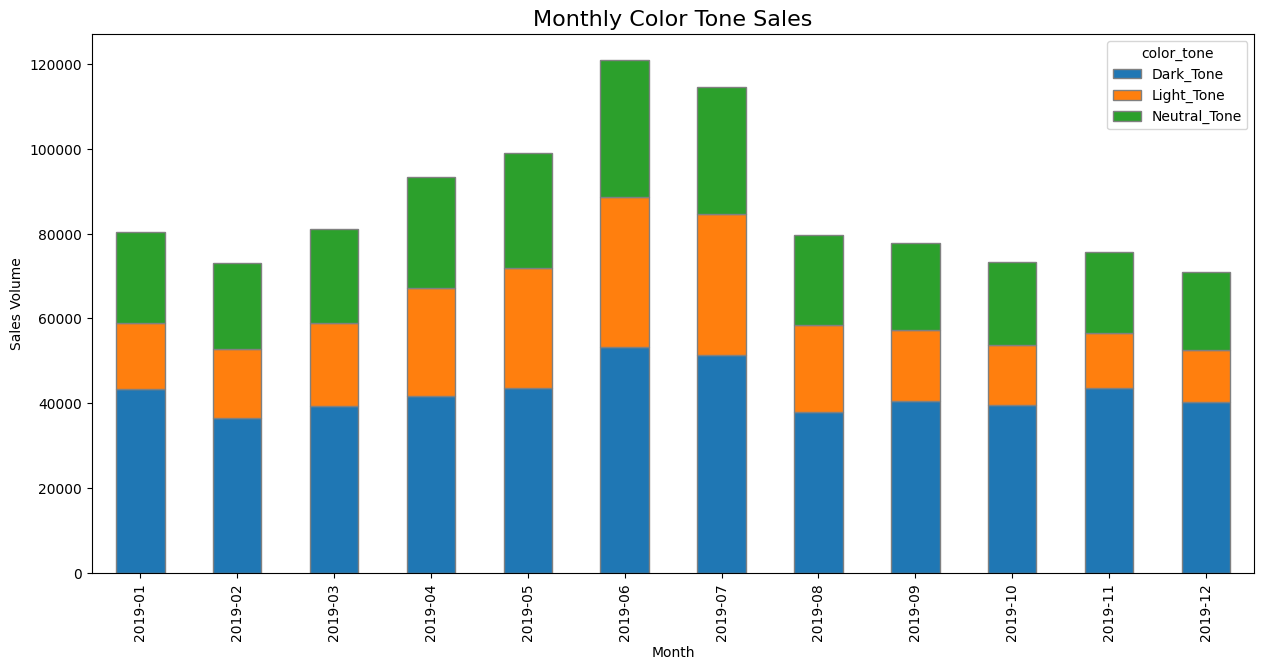
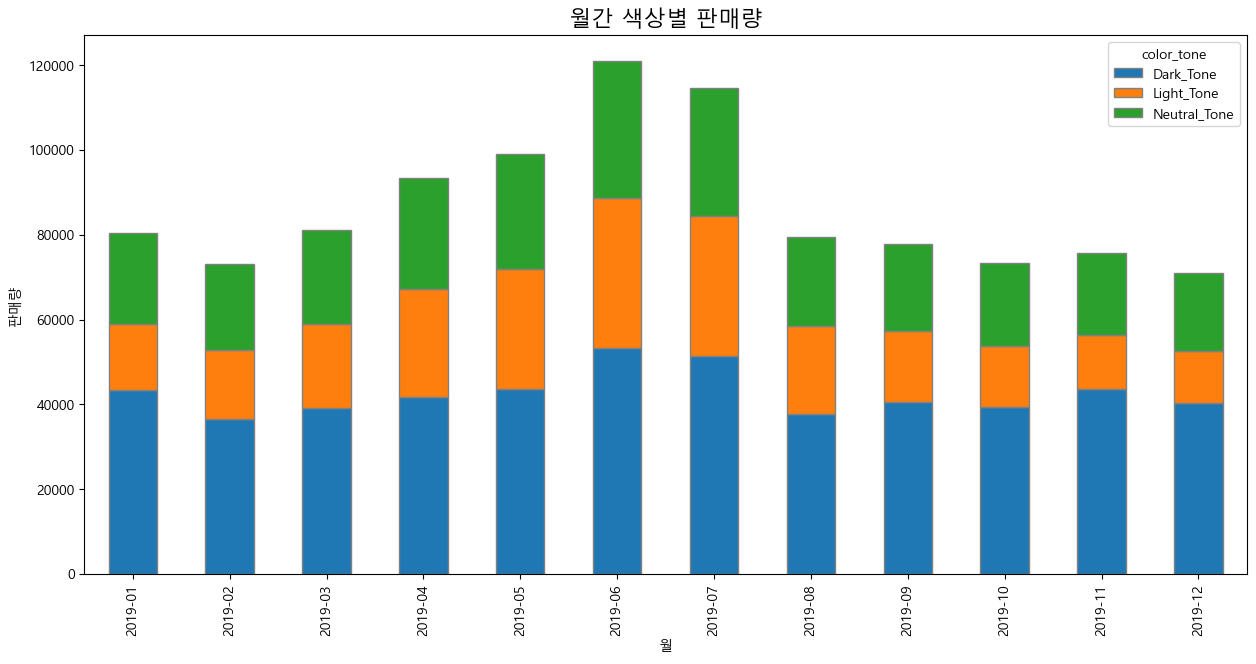
(SOL) 03_color update

diff --git a/SOL_analysis/03_color.md b/SOL_analysis/03_color.md
@@ -25,19 +25,40 @@ print(df.info())
     3  0.033881                 2    2019-08     온라인  0.0     0.0   
     4  0.003220                 1    2019-08    오프라인  0.0     0.0   
     
-       club_member_status  ...          index_name  index_group_name  \
-    0                 2.0  ...             Divided           Divided   
-    1                 2.0  ...          Ladieswear        Ladieswear   
-    2                 2.0  ...            Menswear          Menswear   
-    3                 2.0  ...  Ladies Accessories        Ladieswear   
-    4                 2.0  ...            Menswear          Menswear   
+       club_member_status  fashion_news_frequency   age age_segment  product_code  \
+    0                 2.0                     2.0  51.0         50대        698328   
+    1                 2.0                     0.0  28.0         20대        760597   
+    2                 2.0                     2.0  37.0         30대        488561   
+    3                 2.0                     0.0  19.0         10대        682771   
+    4                 2.0                     0.0  35.0         30대        742400   
     
-                 section_name  garment_group_name  \
-    0      Divided Collection        Jersey Fancy   
-    1           Womens Casual        Jersey Fancy   
-    2     Contemporary Casual              Shorts   
-    3  Womens Big accessories         Accessories   
-    4           Men Underwear    Socks and Tights   
+             prod_name product_type_name  product_group_name  \
+    0     ZEBRA CF TVP           Sweater  Garment Upper body   
+    1  BUBBLE WRAP TOP               Top  Garment Upper body   
+    2    Teddy jogger.            Shorts  Garment Lower body   
+    3     Yuki shopper               Bag         Accessories   
+    4    1pk Sportsock             Socks      Socks & Tights   
+    
+      graphical_appearance_name colour_group_name perceived_colour_value_name  \
+    0           Placement print         Dark Blue                        Dark   
+    1                    Stripe             White                       Light   
+    2                  Chambray         Dark Blue                        Dark   
+    3                     Solid             Black                        Dark   
+    4          All over pattern             White                       Light   
+    
+      perceived_colour_master_name    department_name          index_name  \
+    0                         Blue  Tops Fancy Jersey             Divided   
+    1                        White             Jersey          Ladieswear   
+    2                         Blue             Shorts            Menswear   
+    3                        Black               Bags  Ladies Accessories   
+    4                        White         Socks Wall            Menswear   
+    
+      index_group_name            section_name garment_group_name  \
+    0          Divided      Divided Collection       Jersey Fancy   
+    1       Ladieswear           Womens Casual       Jersey Fancy   
+    2         Menswear     Contemporary Casual             Shorts   
+    3       Ladieswear  Womens Big accessories        Accessories   
+    4         Menswear           Men Underwear   Socks and Tights   
     
                                              detail_desc product_season  \
     0  Top in lightweight sweatshirt fabric with drop...     All-Season   
@@ -52,8 +73,6 @@ print(df.info())
     2      Menswear        General_Fashion  Regular_Carryover   Dark_Tone  
     3    Ladieswear        General_Fashion  Regular_Carryover   Dark_Tone  
     4      Menswear  Low_Involvement_Basic  Regular_Carryover  Light_Tone  
-    
-    [5 rows x 32 columns]
     <class 'pandas.DataFrame'>
     RangeIndex: 1040101 entries, 0 to 1040100
     Data columns (total 32 columns):
@@ -152,7 +171,7 @@ pd.set_option('display.max_columns', None)
 # 2. 만약 행(Row)도 다 보고 싶다면 (주의: 데이터가 너무 많으면 렉이 걸릴 수 있음)
 # pd.set_option('display.max_rows', None)
 
-# 3. 이제 다시 확인해보세요!
+# 3. 이제 다시 확인해보기!
 print(df.columns.tolist()) # 리스트 형태로 깔끔하게 이름만 다 뽑아보기
 # 또는
 df.head() # 이제 가로로 스크롤하며 모든 컬럼 확인 가능
@@ -463,6 +482,10 @@ import seaborn as sns
 
 tone_counts = df['color_tone'].value_counts()
 
+#뽄드
+plt.rc('font', family='Malgun Gothic')
+plt.rcParams['axes.unicode_minus'] = False
+
 ###실제 색에 맞게 코드 추가 (그냥 ㅎ ㅐ보고 싶어서.. 일치감이 중요하니까!)
 # 각 조각의 이름을 보고 실제 색상 매핑
 color_dict = {'Dark_Tone': 'tab:blue', 'Light_Tone': 'tab:orange', 'Neutral_Tone': 'tab:green'}
@@ -474,7 +497,7 @@ plt.pie(tone_counts,
         autopct='%1.1f%%',
         colors=colors,          #지정한 색대로
         startangle=140)
-plt.title('Color Tone Popularity (Sales Volume Share)', fontsize=15)
+plt.title('제품군 색상 톤 비율', fontsize=15)
 plt.show()
 ```
 
@@ -498,9 +521,9 @@ final_table.plot(kind='bar',
                  color=['tab:blue', 'tab:orange', 'tab:green'], #걍 지정해주기
                  edgecolor='gray')
 
-plt.title('Monthly Color Tone Sales', fontsize=16)
-plt.ylabel('Sales Volume')
-plt.xlabel('Month')
+plt.title('월간 색상별 판매량', fontsize=16)
+plt.ylabel('판매량')
+plt.xlabel('월')
 plt.show()
 ```
 
@@ -514,6 +537,81 @@ plt.show()
 * 사실 봄, 여름에는 시원한 느낌의 색이 어울릴 거라고 생각했는데 예상보다 다크톤에 대한 비중이 높았다. 한국 트랜드와는 다를 수 있으니 이 부분은 탐색해봐야 할듯
 * SS 시즌에는 어울리지 않을 거라고 생각했으나 꾸준히 다크톤에 대한 선호도가 높은 만큼 2022 SS도 다크톤에 대한 전략을 세워보면 어떨까?
 * 
+
+
+```python
+##베이직 라인(올시즌)의 톤 분석
+import matplotlib.pyplot as plt
+all_season_df = df[df['product_season'] == 'All-Season']
+volume_table = all_season_df.groupby(['year_month', 'color_tone']).size().unstack(fill_value=0)
+
+volume_table.plot(kind='bar', 
+                  stacked=True, 
+                  figsize=(15, 7), 
+                  edgecolor='gray')
+
+plt.title('All-Season 라인의 색상 별 판매량', fontsize=16)
+plt.ylabel('판매 건수 (Count)')
+plt.xlabel('판매 월')
+plt.xticks(rotation=45)
+plt.legend(title='내 파생변수: color_tone', bbox_to_anchor=(1.05, 1), loc='upper left')
+plt.grid(axis='y', linestyle='--', alpha=0.3)
+plt.show()
+```
+
+
+    
+![png](03_color_files/03_color_12_0.png)
+    
+
+
+
+```python
+#월별 카테고리 
+
+category_data = df.groupby(['year_month', 'category_main']).size().unstack(fill_value=0)
+
+category_data.plot(kind='bar', 
+                   stacked=True, 
+                   figsize=(15, 8), 
+                   colormap='viridis',
+                   width=0.8)
+
+plt.title('월별 카테고리 수요', fontsize=16)
+plt.ylabel('판매량')
+plt.xlabel('월')
+plt.show()
+```
+
+
+    
+![png](03_color_files/03_color_13_0.png)
+    
+
+
+
+```python
+#월별 카테고리 
+
+category_data = df.groupby(['year_month', 'product_season']).size().unstack(fill_value=0)
+
+category_data.plot(kind='bar', 
+                   stacked=True, 
+                   figsize=(15, 8), 
+                   colormap='Set2',
+                   width=0.8)
+
+plt.title('월별 시즌상품 수요', fontsize=16)
+plt.ylabel('판매량')
+plt.xlabel('월')
+plt.show()
+```
+
+
+    
+![png](03_color_files/03_color_14_0.png)
+    
+
 
 
 ```python
